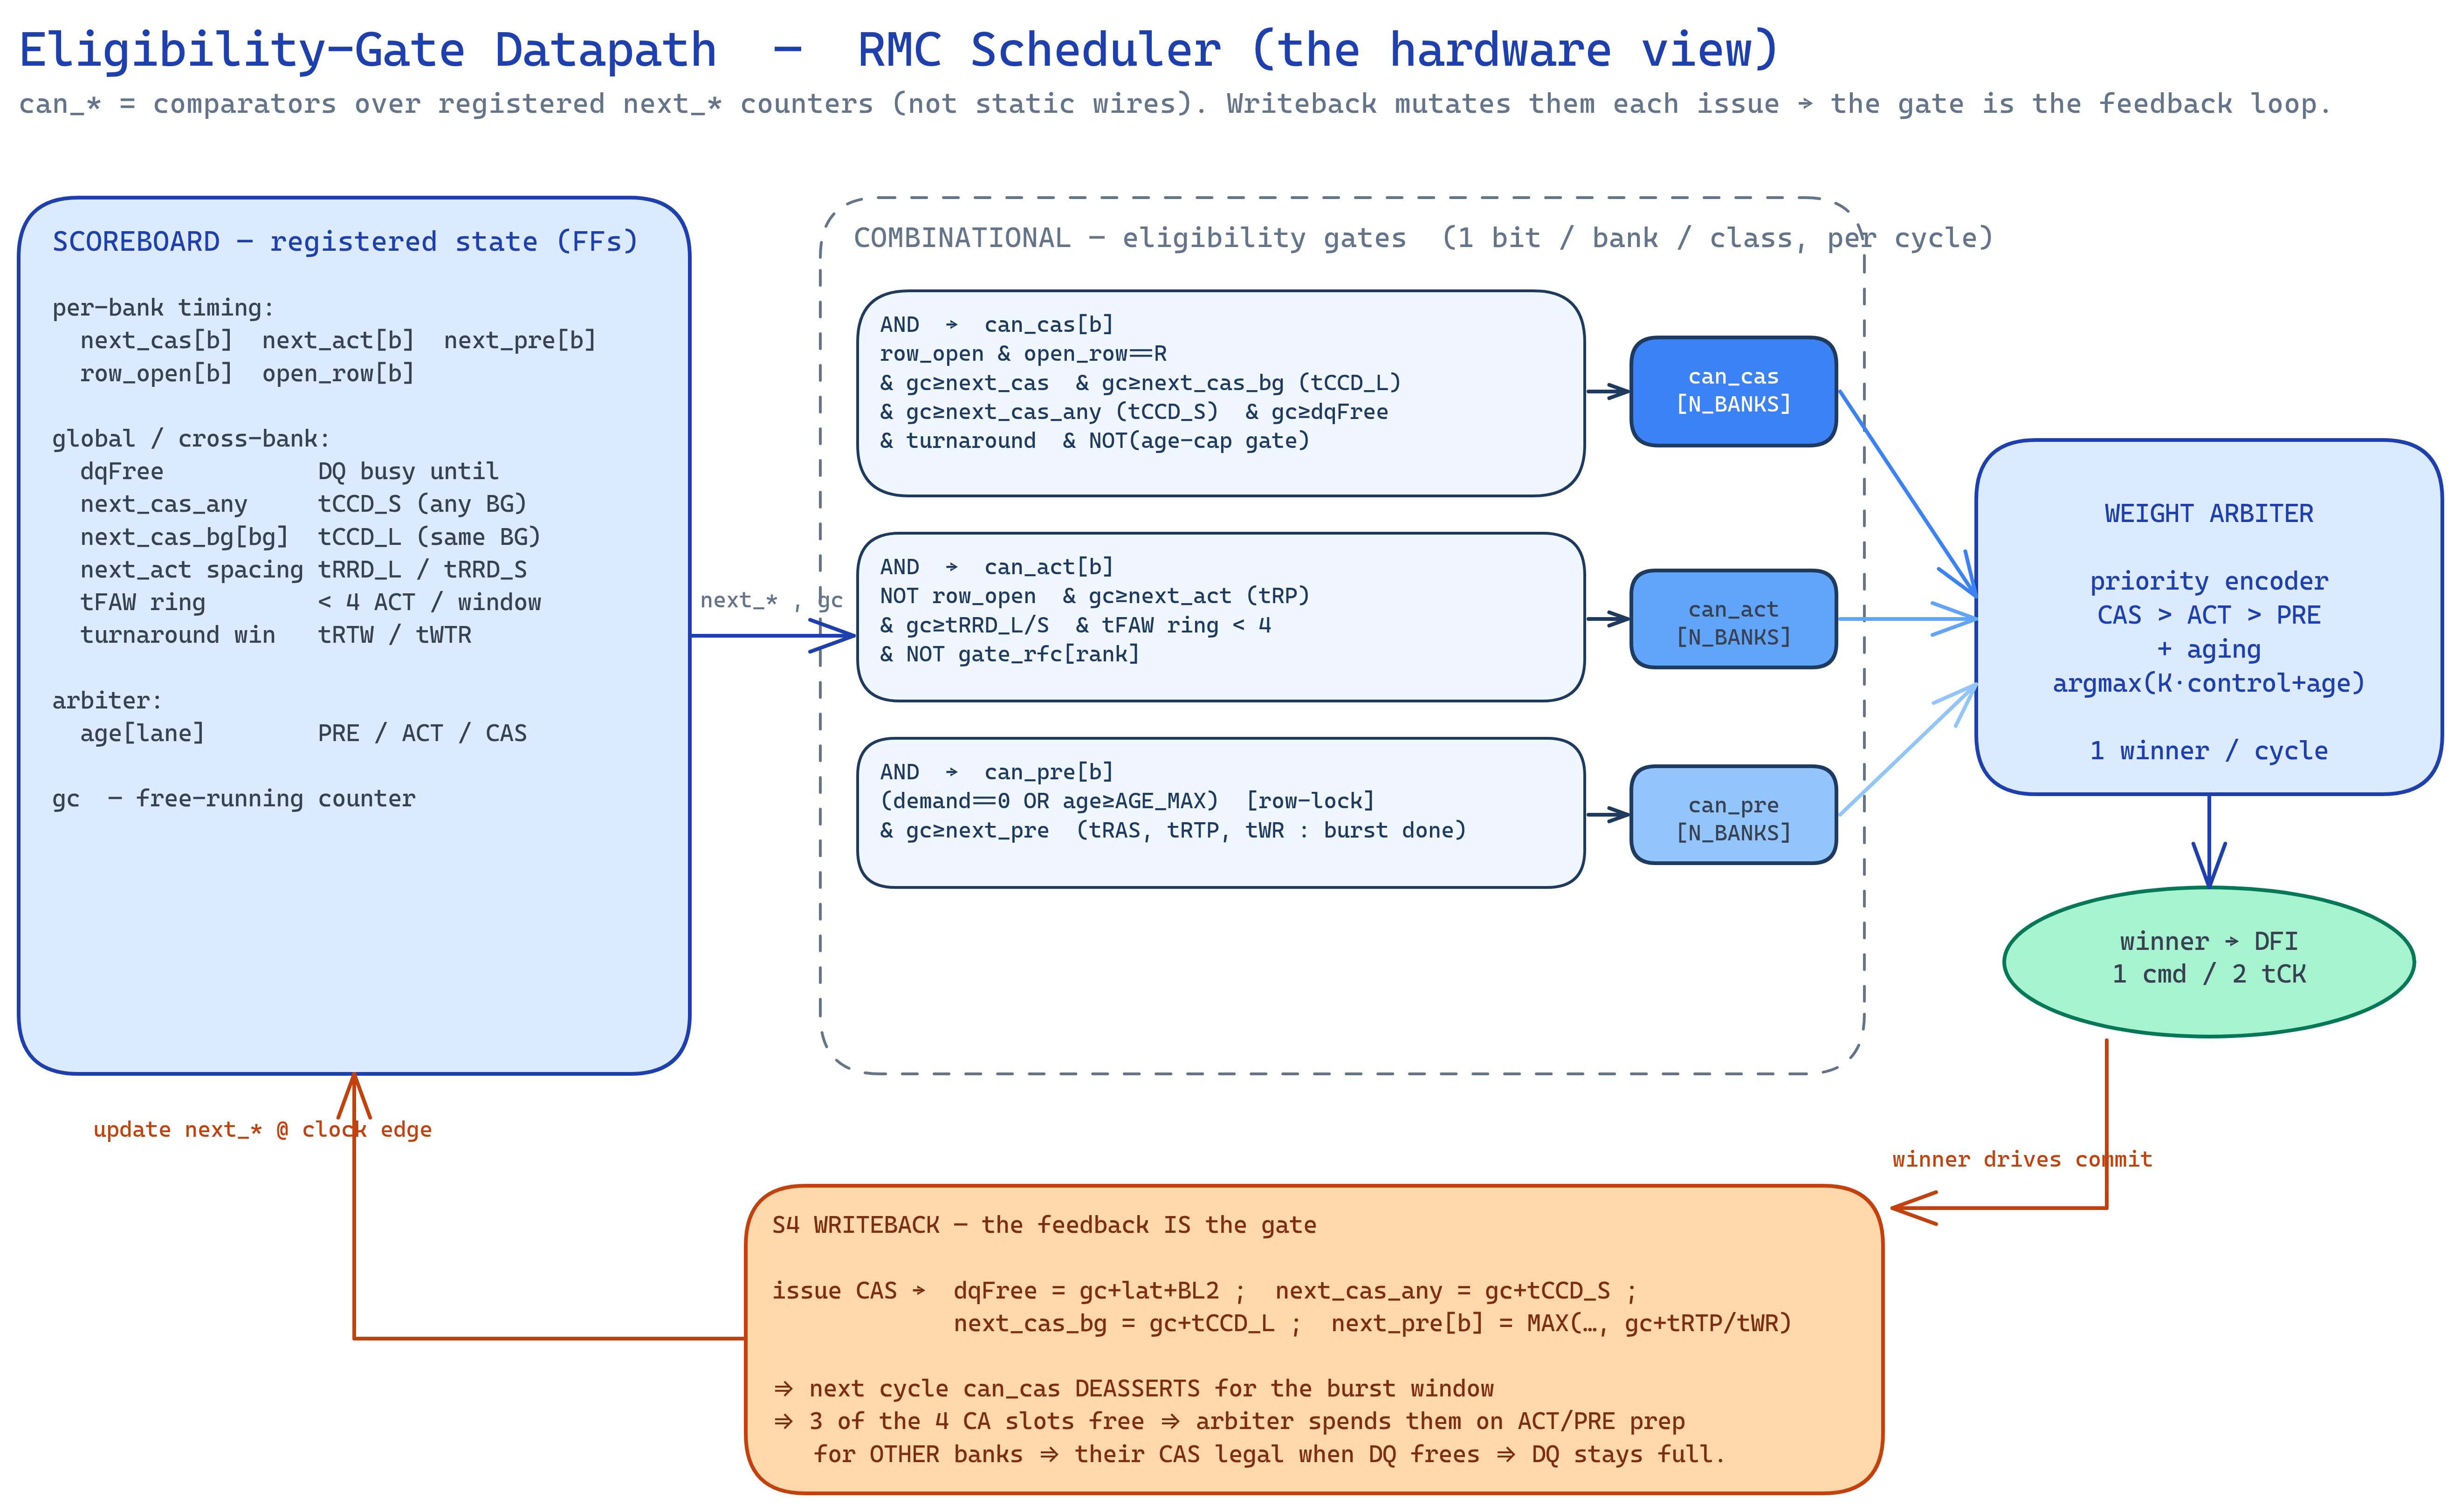
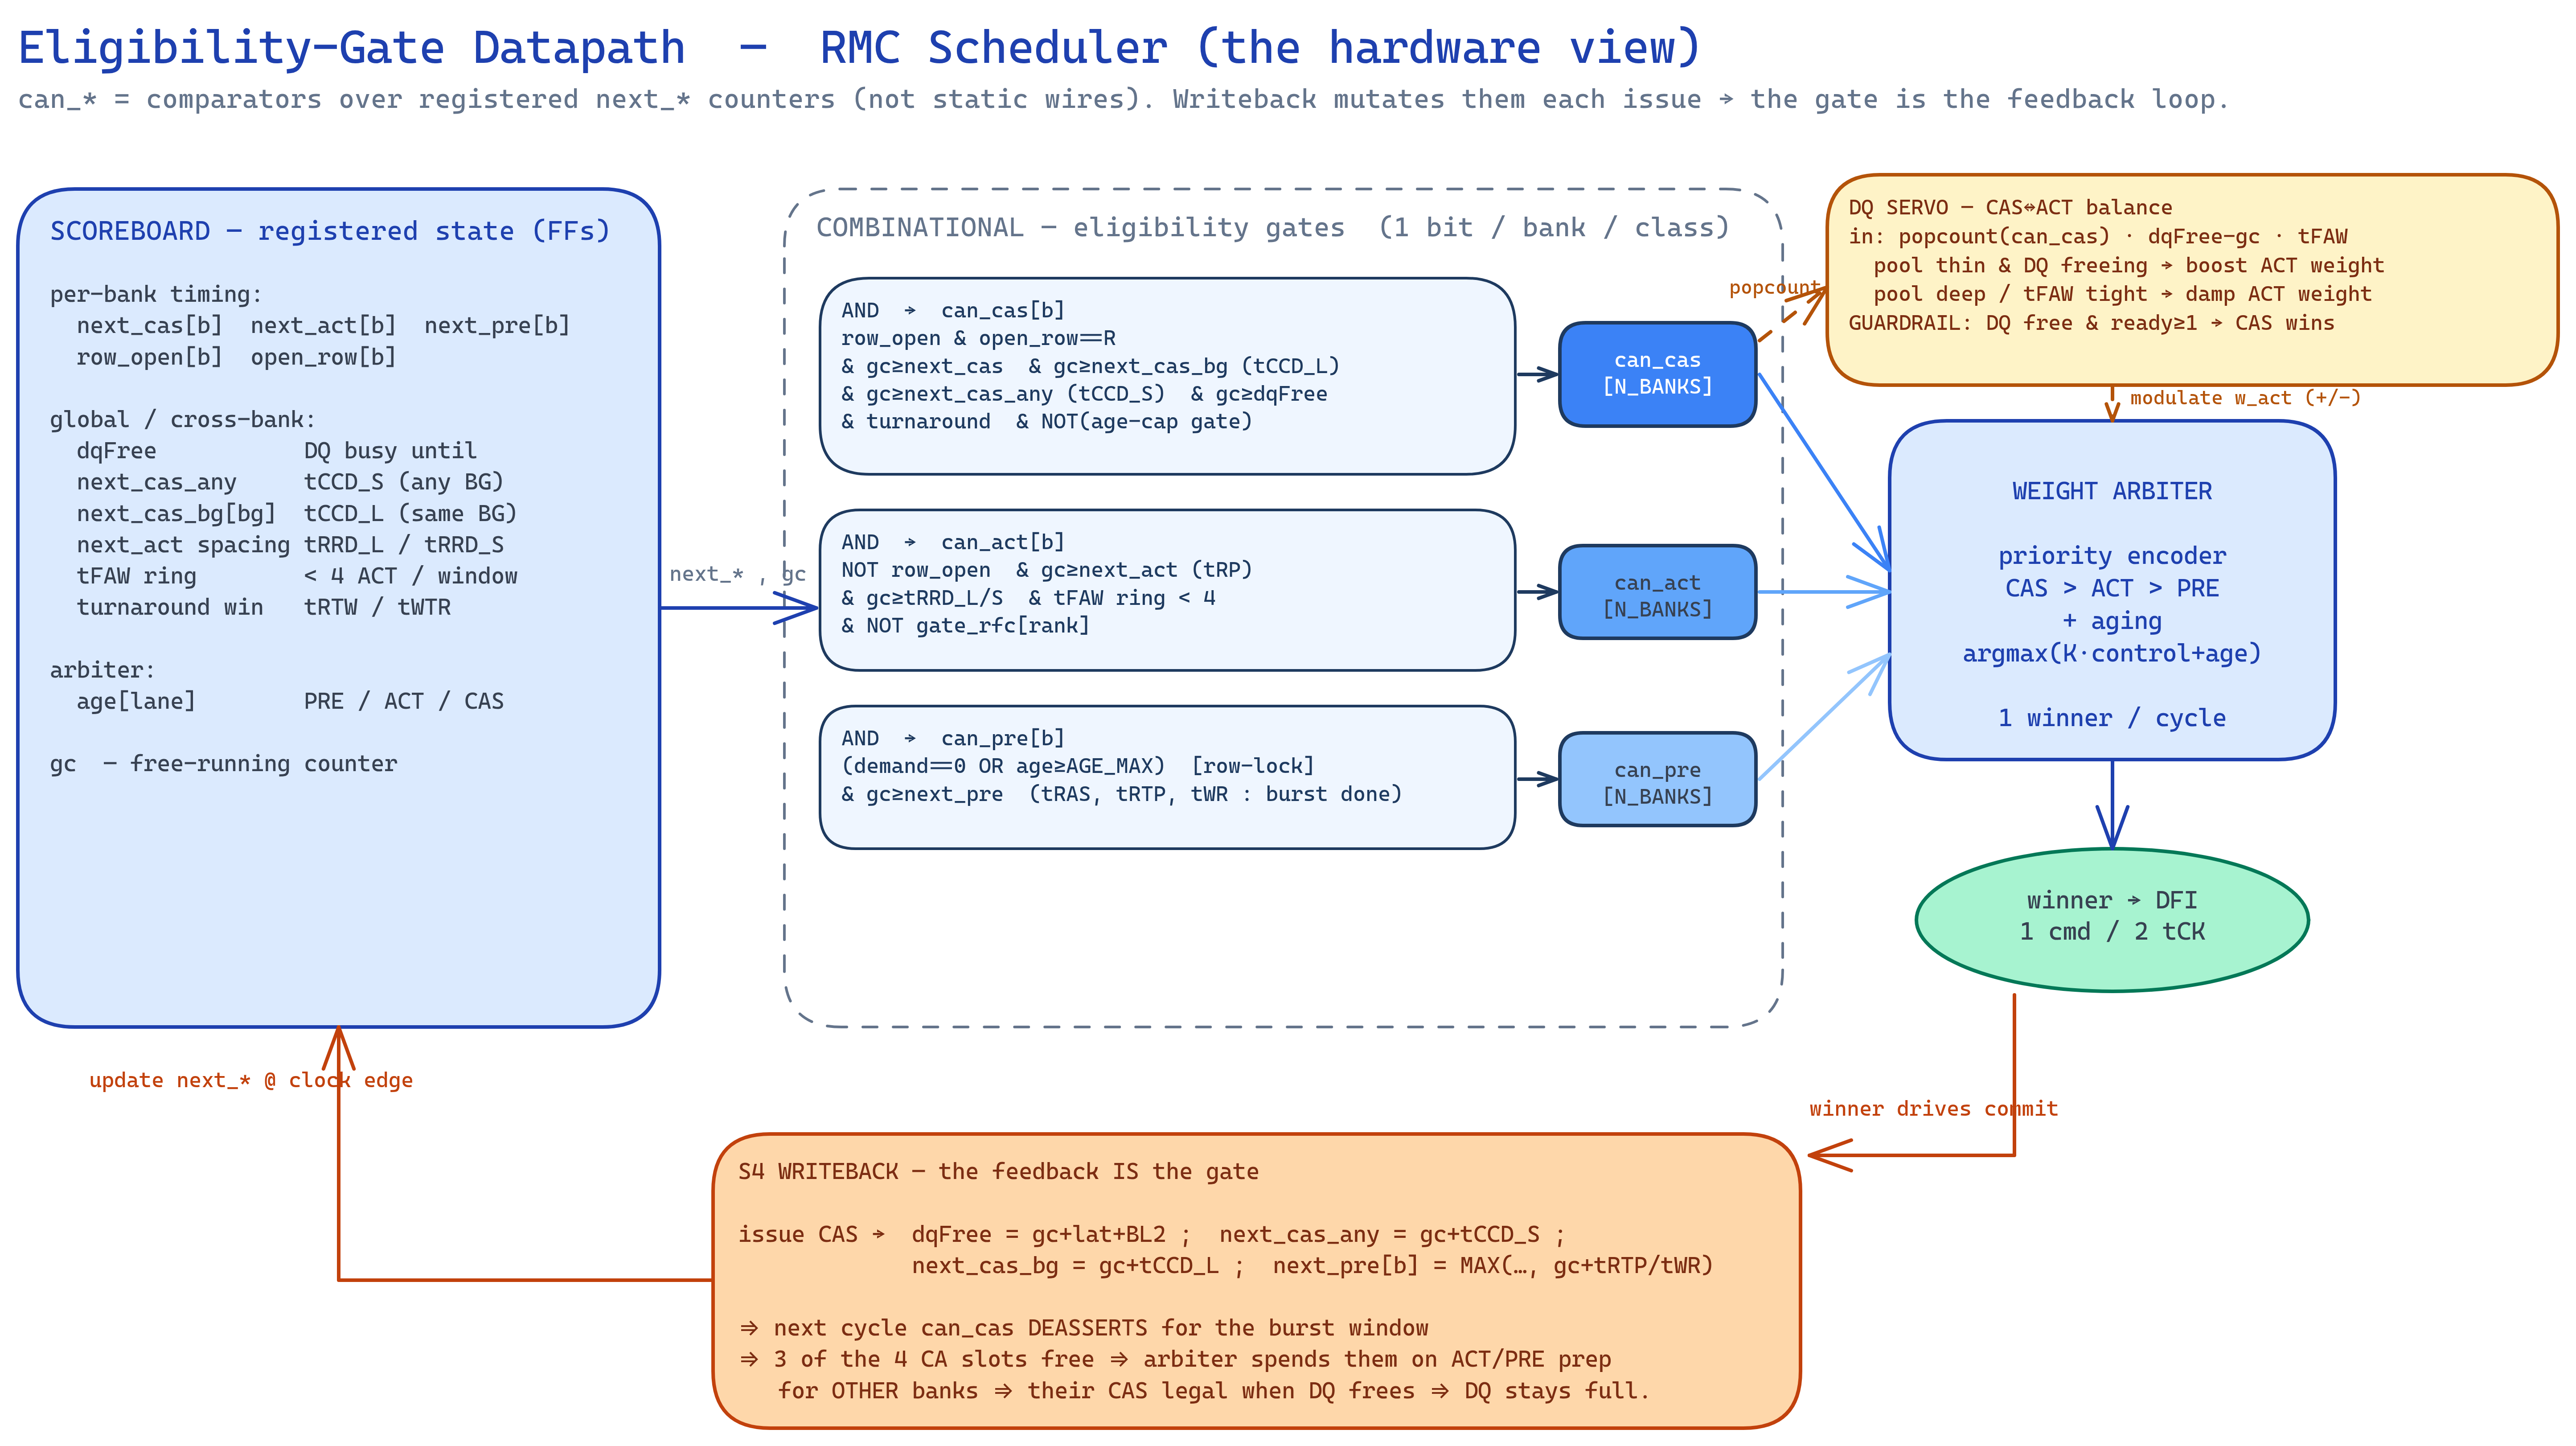
docs(sched): add DQ-occupancy servo (CAS<->ACT balance)
bank_fsm.md \S4e + sched_gate_hw servo block: close the loop between the CAS
lane (DQ consumer) and the ACT lane (ready-row producer). can_cas already hard-
gates on gc>=dqFree, re-evaluated every cycle (the busy/free re-gate). On top,
a soft servo modulates the ACT lane weight from popcount(can_cas), dqFree-gc,
and tFAW budget:

  pool thin  & DQ freeing soon -> boost ACT (prep or DQ idles)
  pool deep  / tFAW tight      -> damp  ACT (rows open; congests future DQ)

Hard guardrail prevents over-correction: DQ free & ready_cas>=1 -> CAS wins
absolutely, so the servo only fills otherwise-idle CA slots with prep and never
idles DQ. Holds ready-CAS pool in [POOL_LOW, POOL_HIGH]; knobs -> weights pass.

Claude-Session: https://claude.ai/code/session_01FYtnmof5BMQaTkcufWB4ZE

diff --git a/docs/scheduler_bank_fsm.md b/docs/scheduler_bank_fsm.md
@@ -206,6 +206,46 @@ prep-latency (`tRCD`/`tRP` ≈ 39 tCK) but loses to one that has waited patholog
 
 ---
 
+### 4e. DQ-occupancy servo — the CAS$\leftrightarrow$ACT balance
+
+CAS is the *consumer* of ready rows and the *producer* of DQ traffic; ACT is the
+*producer* of ready rows. The prep (ACT) rate must track the drain (CAS) rate so the
+ready-CAS pool **never empties** (DQ idles) and **never overfills** (ACT wasted, tFAW
+burned, future DQ congested). A closed servo on top of the fixed control weights.
+
+Signals (combinational, per cycle):
+
+```
+dq_free_in = max(0, dqFree − gc)          cycles until DQ frees (0 = free now)
+ready_cas  = popcount(can_cas[N_BANKS])   ready-CAS pool depth
+faw_budget = ACTs left in the tFAW window
+```
+
+`can_cas` already hard-gates on `gc ≥ dqFree`, re-evaluated every cycle — that is the
+**busy/free re-gate** (§3, §7). The servo is a *soft* modulation of the **ACT lane
+weight** (not a hard gate — hard-gating ACT on pool depth could starve prep):
+
+```
+boost ACT : ready_cas < POOL_LOW  AND  dq_free_in <= LOOKAHEAD   (prep now or DQ idles)
+            act_boost  ∝ (POOL_LOW − ready_cas)
+damp  ACT : ready_cas > POOL_HIGH  OR  faw_budget low            (rows already open)
+            act_damp   ∝ (ready_cas − POOL_HIGH) + faw_pressure
+w_act = K·control_act + age + act_boost − act_damp
+```
+
+**Hard guardrail** (prevents the over-correction — *"when DQ is free and something is
+ready, CAS it"*): `dq_free_in == 0 AND ready_cas >= 1  ⇒  CAS wins absolutely`. A boosted
+ACT can never preempt a ready CAS onto a free bus; the servo only spends
+*otherwise-idle* CA slots on prep. **DQ never idles while a CAS is ready.**
+
+Net: the servo holds `ready_cas` in a band `[POOL_LOW, POOL_HIGH]` — below → prep harder,
+above → prep less — while the guardrail guarantees DQ is never starved. This is the
+CAS-first invariant (§4a) **plus a prep-rate governor**; it makes the S2 lookahead
+scorer's "hide tRCD under queued bursts" an explicit occupancy target. It also caps the
+reverse failure: opening rows faster than CAS drains just parks rows (holds tRAS,
+raises refresh / rowhammer exposure) without feeding DQ faster — the damp side bounds it.
+`POOL_LOW` / `POOL_HIGH` / `LOOKAHEAD` = weights-pass knobs.
+
 ## 5. Latency chains — best case + every worst case
 
 First-data latency and DQ occupancy per case, `b4800` (tCK). "First data" = command issue